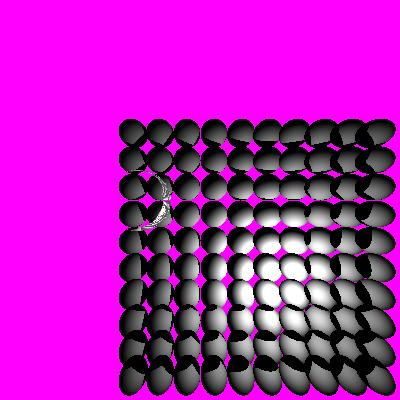
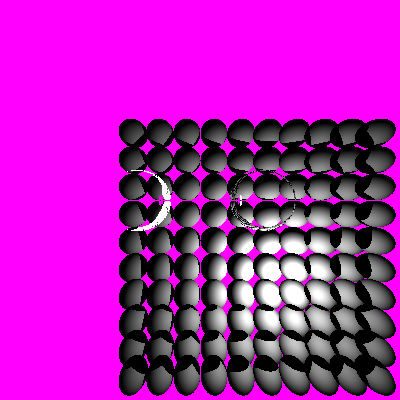
Add refraction with transparent material

diff --git a/Main.cpp b/Main.cpp
@@ -161,14 +161,42 @@ std::optional<cv::Vec3f> compute_color(ray& ray_in, std::vector<sphere>& spheres
 			cv::Vec3f col;
 			if (const auto shadow_dist = ray_intersect_objects(reflect_ray, spheres, hit_sphere); shadow_dist.has_value())
 			{
-				col = hit_sphere.diffuse * 0.32f;
+				col = hit_sphere.diffuse * 0.98f;
 
 				//take the color of the hit
 				if (std::optional<cv::Vec3f> color = compute_color(reflect_ray, spheres, hit_sphere, light, dir, ++i); color.has_value()) {
-					return color.value() + col * 255;
+					return color.value() * 0.02f + col * 255;
 				}
 			}
 
+		}
+		else if (sphere_obj.Mat == "Transparent") {
+			//calculate reflection ray
+			cv::Vec3f reflectDir = reflect(dir, normal);
+			const float offset = 0.01f;
+			ray reflect_ray = { sphere_intersection + offset * reflectDir, reflectDir };
+
+			cv::Vec3f refractDir = refract(dir, normal, 1.0f);
+			ray refract_ray = { sphere_intersection + offset * reflectDir, reflectDir };
+
+			cv::Vec3f col;
+			if (const auto shadow_dist = ray_intersect_objects(reflect_ray, spheres, hit_sphere); shadow_dist.has_value())
+			{
+				col = hit_sphere.diffuse * 0.55f;
+				float ran = rand();
+
+				if (ran > 0.5f) {
+					if (std::optional<cv::Vec3f> colorRefr = compute_color(refract_ray, spheres, hit_sphere, light, dir, ++i); colorRefr.has_value()) {
+						return colorRefr.value() + col;
+					}
+				}
+				else {
+					if (std::optional<cv::Vec3f> color = compute_color(reflect_ray, spheres, hit_sphere, light, dir, ++i); color.has_value()) {
+						return color.value() + col;
+					}
+				}
+				
+			}
 		}
 
 		//Calculate pixel of image
@@ -213,6 +241,7 @@ int main()
 	}
 
 	spheres.push_back({ { screen_width / 2 - 100, screen_height / 2, 100.0f}, 50.0f, {1, 0, 1}, "Mirror" });
+	spheres.push_back({ { screen_width / 2 + 100, screen_height / 2, 100.0f}, 50.0f, {1, 0, 1}, "Transparent" });
 
 	for(int y = 0; y < screen_height; ++y)
 	{	
